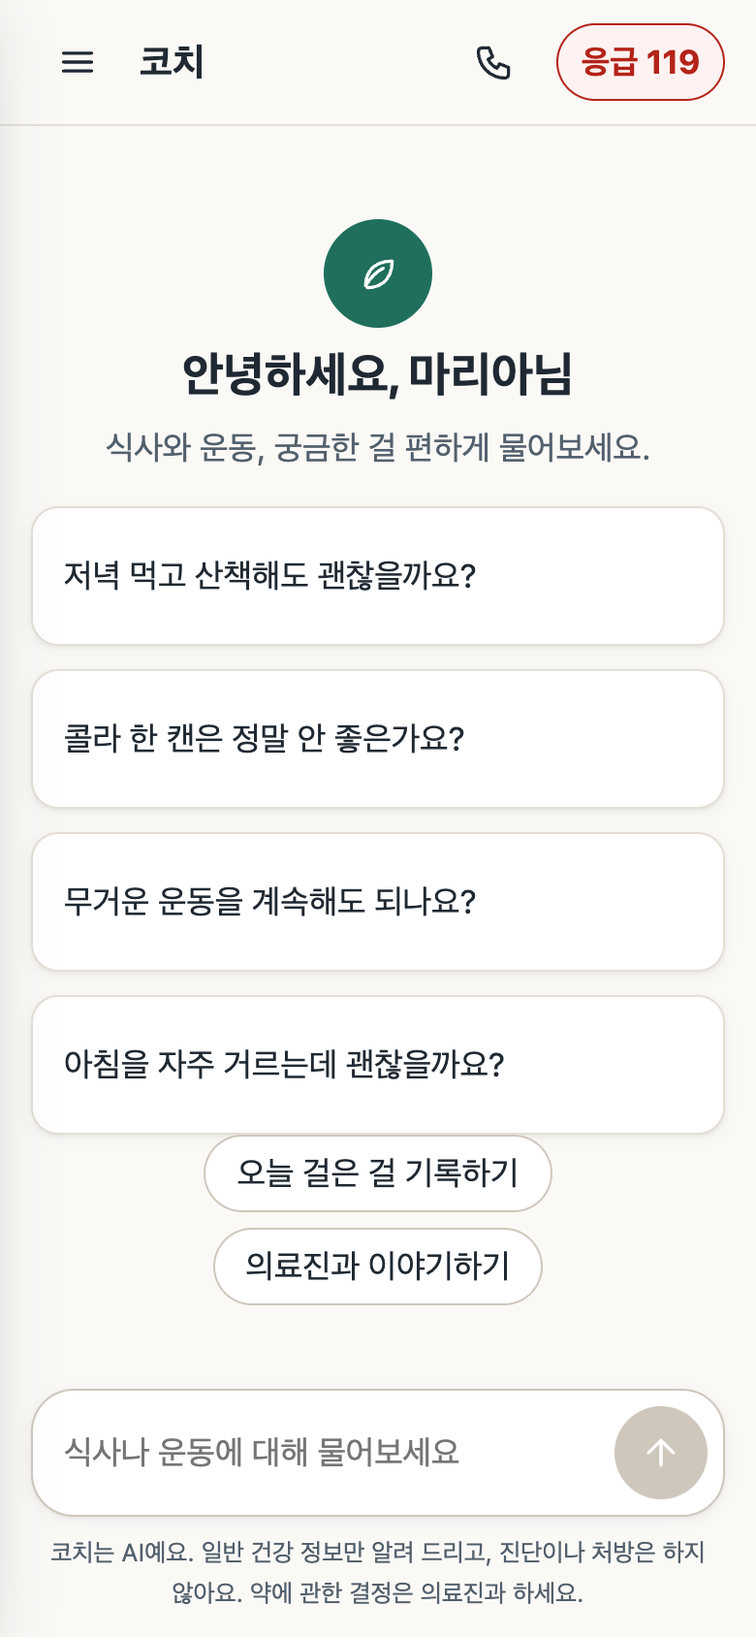
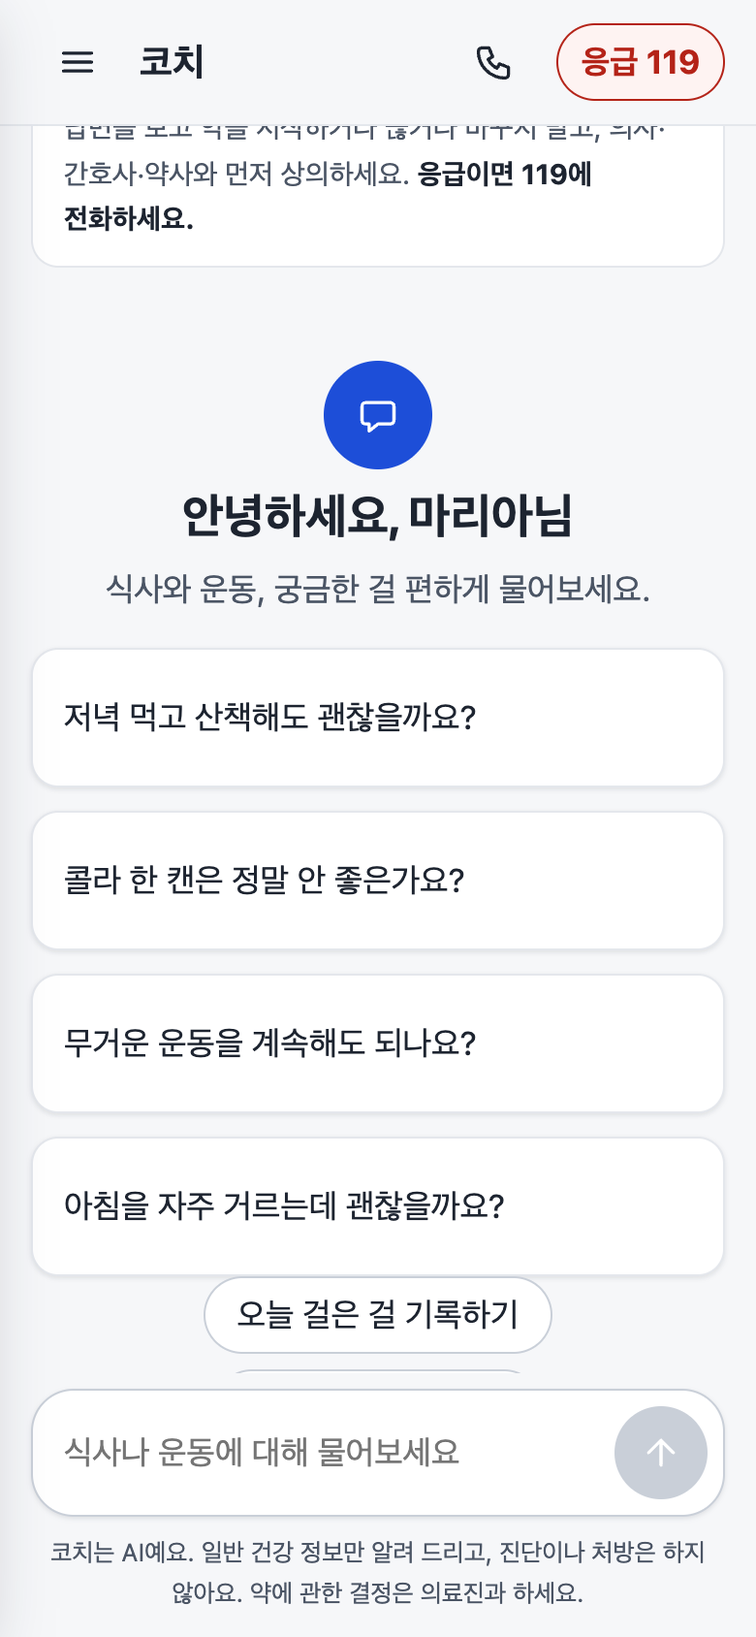
UI back to the published blue look; demo mode: one-click synthetic users and demo care team (COACH_DEMO); skip empty history answers

diff --git a/web/index.html b/web/index.html
@@ -1,6 +1,6 @@
 <!doctype html>
 <html lang="ko"><head><meta charset="utf-8"><meta name="viewport" content="width=device-width, initial-scale=1, viewport-fit=cover">
-<title>식단·운동 코치</title><meta name="theme-color" content="#1F6F5C"><link rel="manifest" href="/manifest.webmanifest"><link rel="icon" href="/icon.svg" type="image/svg+xml">
+<title>식단·운동 코치</title><meta name="theme-color" content="#1D4ED8"><link rel="manifest" href="/manifest.webmanifest"><link rel="icon" href="/icon.svg" type="image/svg+xml">
 <link rel="apple-touch-icon" href="/icon-192.png"><link rel="stylesheet" href="/ds.css">
 <style>
 html,body{height:100%}body{overflow:hidden}
@@ -23,10 +23,11 @@ html,body{height:100%}body{overflow:hidden}
 #banner:not(:empty){padding:var(--s3) var(--s4) 0}
 .scroll{flex:1;overflow:auto;padding:var(--s5) var(--s4) var(--s4);scroll-behavior:smooth}
 .thread{max-width:760px;margin:0 auto;display:flex;flex-direction:column;gap:var(--s5)}
+.notice{background:var(--surface);border:1px solid var(--line);border-radius:var(--r-md);padding:var(--s3) var(--s4);font-size:var(--fs-sm);color:var(--ink-2)}.notice b{color:var(--ink)}
 .date{align-self:center;font-size:var(--fs-sm);color:var(--ink-2);background:var(--surface-2);padding:2px var(--s3);border-radius:var(--r-pill)}
 .row{display:flex;gap:var(--s3);align-items:flex-start}.row.me{justify-content:flex-end}
-.bubble{background:var(--brand-soft);color:var(--ink);padding:var(--s3) var(--s4);border-radius:20px 20px 6px 20px;max-width:82%;white-space:pre-wrap}
-.bot{flex:1;min-width:0;display:flex;flex-direction:column;gap:var(--s2);max-width:680px}.bot p+p{margin-top:var(--s3)}.bot .txt{white-space:pre-wrap}
+.bubble{background:var(--brand-soft);color:var(--ink);padding:var(--s3) var(--s4);border-radius:var(--r-md) var(--r-md) 4px var(--r-md);max-width:82%;white-space:pre-wrap}
+.bot{flex:0 1 auto;min-width:0;display:flex;flex-direction:column;gap:var(--s2);max-width:680px;background:var(--surface);border:1px solid var(--line);border-radius:var(--r-md);padding:var(--s3) var(--s4);box-shadow:var(--sh-1)}.bot p+p{margin-top:var(--s3)}.bot .txt{white-space:pre-wrap}
 .cite{min-width:28px;min-height:28px;margin:0 2px;padding:0 6px;border-radius:var(--r-sm);border:1px solid var(--brand);background:var(--brand-soft);color:var(--brand);font:inherit;font-size:.8rem;font-weight:700;cursor:pointer;vertical-align:baseline}
 .srcs{display:flex;flex-wrap:wrap;gap:var(--s2);align-items:center}.srcs .chip{min-height:36px;font-size:var(--fs-sm)}
 .note{display:flex;align-items:center;gap:6px;font-size:var(--fs-sm);color:var(--ink-2)}.note .icon{width:16px;height:16px}
@@ -65,7 +66,7 @@ dl.meta{display:grid;grid-template-columns:max-content 1fr;gap:2px var(--s3);mar
 }
 </style></head><body>
 <svg width="0" height="0" style="position:absolute" aria-hidden="true">
- <symbol id="i-leaf" viewBox="0 0 24 24"><path d="M5 19c0-8 5-14 15-14 0 10-6 15-14 15"/><path d="M5 19c3-5 6-8 10-10"/></symbol>
+ <symbol id="i-leaf" viewBox="0 0 24 24"><path d="M5 5h14a2 2 0 0 1 2 2v8a2 2 0 0 1-2 2h-7l-5 4v-4H5a2 2 0 0 1-2-2V7a2 2 0 0 1 2-2z"/></symbol>
  <symbol id="i-menu" viewBox="0 0 24 24"><path d="M4 7h16M4 12h16M4 17h16"/></symbol>
  <symbol id="i-phone" viewBox="0 0 24 24"><path d="M5 4h4l2 5-2.5 1.5a11 11 0 0 0 5 5L15 13l5 2v4a2 2 0 0 1-2 2A15 15 0 0 1 3 6a2 2 0 0 1 2-2z"/></symbol>
  <symbol id="i-send" viewBox="0 0 24 24"><path d="M12 19V5M5 12l7-7 7 7"/></symbol>
@@ -146,8 +147,9 @@ const dayLabel=ts=>{const d=new Date(ts),t=new Date(),y=new Date(t-864e5),same=(
 function scrollEnd(){requestAnimationFrame(()=>scroller.scrollTo({top:scroller.scrollHeight}))}
 function put(html,cls=''){const d=document.createElement('div');d.className=cls;d.innerHTML=html;thread.appendChild(d);scrollEnd();return d}
 function renderThread(){thread.innerHTML='';hasMsgs=false;let last='';
+ put('<b>이 서비스는 의사가 아니라 건강 코칭 서비스예요.</b> 논문에서 찾은 일반 정보와 생활 습관만 알려 드려요. 답변을 보고 약을 시작하거나 끊거나 바꾸지 말고, 의사·간호사·약사와 먼저 상의하세요. <b>응급이면 119에 전화하세요.</b>','notice');
  (ME.history||[]).forEach(h=>{const day=dayLabel(h.ts);if(day!==last){put(esc(day),'date');last=day}
-  if(!h.message.startsWith('(approval)'))user(h.message);bot({answer:h.answer,route:h.route,citations:(h.meta&&h.meta.citations)||[]})});
+  if(!h.message.startsWith('(approval)'))user(h.message);if((h.answer||'').trim())bot({answer:h.answer,route:h.route,citations:(h.meta&&h.meta.citations)||[]})});
  if(!hasMsgs)hello();scrollEnd()}
 function hello(){const n=ME.account.name;const d=put(`<div class="hello"><span class="avatar">${icon('leaf')}</span><h2>안녕하세요, ${esc(n)}님</h2><p class="muted">식사와 운동, 궁금한 걸 편하게 물어보세요.</p></div>
  <div class="sugg">${SUGG.map(s=>`<button type="button">${esc(s)}</button>`).join('')}</div>

diff --git a/web/login.html b/web/login.html
@@ -1,6 +1,6 @@
 <!doctype html>
 <html lang="ko"><head><meta charset="utf-8"><meta name="viewport" content="width=device-width, initial-scale=1, viewport-fit=cover">
-<title>로그인 · 식단·운동 코치</title><meta name="theme-color" content="#1F6F5C"><link rel="icon" href="/icon.svg" type="image/svg+xml">
+<title>로그인 · 식단·운동 코치</title><meta name="theme-color" content="#1D4ED8"><link rel="icon" href="/icon.svg" type="image/svg+xml">
 <link rel="stylesheet" href="/ds.css">
 <style>
 body{min-height:100vh;display:grid;place-items:center;padding:var(--s5) var(--s4)}
@@ -17,8 +17,12 @@ form{display:flex;flex-direction:column;gap:var(--s4)}
 .steps{display:flex;gap:var(--s2);align-items:center;color:var(--ink-2);font-size:var(--fs-sm)}.steps b{color:var(--ink)}
 .check{display:flex;gap:var(--s3);align-items:flex-start}.check input{width:24px;height:24px;margin-top:2px;accent-color:var(--brand);flex:none}
 .foot{text-align:center}
+.demo{padding:var(--s5);display:flex;flex-direction:column;gap:var(--s3)}.demo h2{font-size:var(--fs-lg)}
+.people{display:grid;grid-template-columns:1fr 1fr;gap:var(--s2)}
+.people button{display:flex;flex-direction:column;align-items:flex-start;gap:2px;min-height:64px;padding:var(--s2) var(--s3);text-align:left;border:1px solid var(--line-strong);border-radius:var(--r-md);background:var(--surface);color:var(--ink);font:inherit;cursor:pointer}
+.people button:hover{background:var(--surface-2)}.people small{color:var(--ink-2);font-size:.78rem;line-height:1.3}
 </style></head><body>
-<svg width="0" height="0" style="position:absolute" aria-hidden="true"><symbol id="i-leaf" viewBox="0 0 24 24"><path d="M5 19c0-8 5-14 15-14 0 10-6 15-14 15"/><path d="M5 19c3-5 6-8 10-10"/></symbol></svg>
+<svg width="0" height="0" style="position:absolute" aria-hidden="true"><symbol id="i-leaf" viewBox="0 0 24 24"><path d="M5 5h14a2 2 0 0 1 2 2v8a2 2 0 0 1-2 2h-7l-5 4v-4H5a2 2 0 0 1-2-2V7a2 2 0 0 1 2-2z"/></symbol></svg>
 <main class="wrap">
  <header class="brand"><div class="mark" aria-hidden="true"><svg class="icon"><use href="#i-leaf"/></svg></div>
   <h1 style="font-size:var(--fs-2xl)">식단·운동 코치</h1><p class="muted">내 몸 상태에 맞춰 식사와 운동을 같이 살펴봐요.</p></header>
@@ -66,6 +70,8 @@ form{display:flex;flex-direction:column;gap:var(--s4)}
    <div style="display:flex;gap:var(--s2)"><button class="btn secondary" type="button" id="back" hidden>이전</button><button class="btn" type="submit" id="next" style="flex:1">다음</button></div>
   </form>
  </section>
+ <section class="card demo" id="demo" hidden aria-labelledby="demoH"><h2 id="demoH">가상 사용자로 체험하기</h2>
+  <p class="small muted">비밀번호 없이 바로 들어가요. 모두 가상의 인물이에요.</p><div class="people" id="people"></div></section>
  <p class="foot small muted">건강 정보는 이 서비스의 서버에만 저장돼요.</p>
 </main>
 <script src="/ds.js"></script>
@@ -84,6 +90,9 @@ $('tabIn').onclick=()=>tab(false);$('tabUp').onclick=()=>tab(true);if(location.h
 $('formIn').onsubmit=async e=>{e.preventDefault();$('inErr').textContent='';$('inBtn').disabled=true;
  try{await api('/api/auth/login',{username:$('inUser').value,password:$('inPw').value});location.href='/'}
  catch(x){$('inErr').textContent=x.message;$('inPw').value='';$('inBtn').disabled=false}};
+fetch('/api/demo/users').then(r=>r.ok?r.json():null).then(l=>{if(!l)return;$('demo').hidden=false;
+ $('people').innerHTML=l.map(u=>`<button type="button" data-id="${u.id}"><b>${esc(u.name)} · ${u.age}세</b><small>${esc(u.line)}</small></button>`).join('');
+ $('people').onclick=async e=>{const b=e.target.closest('button');if(!b)return;b.disabled=true;try{await api('/api/demo/enter',{user_id:b.dataset.id});location.href='/'}catch(x){toast(x.message);b.disabled=false}}}).catch(()=>{});
 let step=1;const NAMES=['계정 만들기','내 건강 정보','동의하고 시작하기'];
 function show(n){step=n;[1,2,3].forEach(i=>{const s=$('s'+i);s.hidden=i!==n;s.style.display=i===n?'flex':'none'});$('stepNo').textContent=n;$('stepName').textContent=NAMES[n-1];
  $('back').hidden=n===1;$('next').textContent=n===3?'가입하고 시작하기':'다음';$('upErr').textContent='';window.scrollTo(0,0)}

diff --git a/web/ds.css b/web/ds.css
@@ -1,31 +1,31 @@
 /* Design system v1 (docs/ui/DESIGN.md). Tokens first, then components. Pages add layout only, never new colors or sizes. */
 :root{
- /* color: surface */
- --bg:#FBF9F6;--surface:#FFFFFF;--surface-2:#F3EFE9;--line:#E4DED5;--line-strong:#CFC7BB;
+ /* color: surface (same cool-grey + blue family as the first published UI) */
+ --bg:#F6F7F9;--surface:#FFFFFF;--surface-2:#EEF1F5;--line:#E4E7EC;--line-strong:#C9CFD8;
  /* color: text */
- --ink:#1F2933;--ink-2:#52606D;--ink-inverse:#FFFFFF;
+ --ink:#1D2430;--ink-2:#4B5565;--ink-inverse:#FFFFFF;
  /* color: brand + semantic */
- --brand:#1F6F5C;--brand-hover:#185A4B;--brand-soft:#E3F1EC;--brand-ink:#FFFFFF;
- --danger:#B42318;--danger-soft:#FEF3F2;--warn:#8A4B08;--warn-soft:#FFF4E5;--ok:#067647;--hl:#FFF3BF;--hl-strong:#FFD43B;
- --scrim:rgba(20,24,26,.45);
+ --brand:#1D4ED8;--brand-hover:#1E40AF;--brand-soft:#E3ECFF;--brand-ink:#FFFFFF;
+ --danger:#B42318;--danger-soft:#FEF3F2;--warn:#B54708;--warn-soft:#FFF4E5;--ok:#067647;--hl:#FFF3BF;--hl-strong:#FFD43B;
+ --scrim:rgba(17,20,24,.45);
  /* type */
  --font:-apple-system,BlinkMacSystemFont,"Apple SD Gothic Neo","Noto Sans KR","Malgun Gothic",system-ui,sans-serif;
  --fs:17px;--fs-sm:.85rem;--fs-lg:1.15rem;--fs-xl:1.45rem;--fs-2xl:1.9rem;--lh:1.65;--lh-tight:1.3;
  /* space (4px scale), radius, shadow, motion */
  --s1:4px;--s2:8px;--s3:12px;--s4:16px;--s5:24px;--s6:32px;--s7:48px;--s8:72px;
  --r-sm:8px;--r-md:14px;--r-lg:22px;--r-pill:999px;
- --sh-1:0 1px 2px rgba(31,41,51,.06),0 2px 8px rgba(31,41,51,.05);--sh-2:0 8px 32px rgba(31,41,51,.18);
+ --sh-1:0 1px 2px rgba(16,24,40,.05),0 1px 3px rgba(16,24,40,.06);--sh-2:0 8px 32px rgba(16,24,40,.18);
  --t:150ms ease;--tap:48px;--focus:3px solid var(--brand);
- --chart-1:#1F6F5C;--chart-2:#C27803;--chart-3:#6B7C93;--chart-4:#B42318;
+ --chart-1:#2F6FED;--chart-2:#12B76A;--chart-3:#98A2B3;--chart-4:#F04438;
 }
 @media (prefers-color-scheme:dark){:root:not([data-theme="light"]){
- --bg:#14181A;--surface:#1C2124;--surface-2:#242B2F;--line:#2E363B;--line-strong:#3C464C;--ink:#ECEFF1;--ink-2:#A9B4BC;
- --brand:#5FC4A7;--brand-hover:#7AD3B9;--brand-soft:#1D3A33;--brand-ink:#0B2A22;--danger:#FF9A8F;--danger-soft:#3A1A17;--warn:#F6B25C;--warn-soft:#3A2A12;--ok:#47CD89;
+ --bg:#111418;--surface:#1A1F26;--surface-2:#222831;--line:#2B323C;--line-strong:#3A424E;--ink:#EEF0F4;--ink-2:#B0B8C5;
+ --brand:#8AB0FF;--brand-hover:#A9C4FF;--brand-soft:#1F2A40;--brand-ink:#0B1220;--danger:#FF8F85;--danger-soft:#2A1715;--warn:#FDB022;--warn-soft:#33250F;--ok:#47CD89;
  --hl:#4A4318;--hl-strong:#8A7A10;--scrim:rgba(0,0,0,.6);--sh-1:none;--sh-2:0 8px 32px rgba(0,0,0,.5);
- --chart-1:#5FC4A7;--chart-2:#F6B25C;--chart-3:#8FA0B5;--chart-4:#FF9A8F}}
-:root[data-theme="dark"]{--bg:#14181A;--surface:#1C2124;--surface-2:#242B2F;--line:#2E363B;--line-strong:#3C464C;--ink:#ECEFF1;--ink-2:#A9B4BC;
- --brand:#5FC4A7;--brand-hover:#7AD3B9;--brand-soft:#1D3A33;--brand-ink:#0B2A22;--danger:#FF9A8F;--danger-soft:#3A1A17;--warn:#F6B25C;--warn-soft:#3A2A12;--ok:#47CD89;
- --hl:#4A4318;--hl-strong:#8A7A10;--scrim:rgba(0,0,0,.6);--sh-1:none;--sh-2:0 8px 32px rgba(0,0,0,.5);--chart-1:#5FC4A7;--chart-2:#F6B25C;--chart-3:#8FA0B5;--chart-4:#FF9A8F}
+ --chart-1:#6C9CFF;--chart-2:#47CD89;--chart-3:#667085;--chart-4:#F97066}}
+:root[data-theme="dark"]{--bg:#111418;--surface:#1A1F26;--surface-2:#222831;--line:#2B323C;--line-strong:#3A424E;--ink:#EEF0F4;--ink-2:#B0B8C5;
+ --brand:#8AB0FF;--brand-hover:#A9C4FF;--brand-soft:#1F2A40;--brand-ink:#0B1220;--danger:#FF8F85;--danger-soft:#2A1715;--warn:#FDB022;--warn-soft:#33250F;--ok:#47CD89;
+ --hl:#4A4318;--hl-strong:#8A7A10;--scrim:rgba(0,0,0,.6);--sh-1:none;--sh-2:0 8px 32px rgba(0,0,0,.5);--chart-1:#6C9CFF;--chart-2:#47CD89;--chart-3:#667085;--chart-4:#F97066}
 
 *{box-sizing:border-box}html{font-size:var(--fs);-webkit-text-size-adjust:100%}
 body{margin:0;background:var(--bg);color:var(--ink);font:1rem/var(--lh) var(--font);word-break:keep-all;overflow-wrap:anywhere}

diff --git a/web/admin-login.html b/web/admin-login.html
@@ -12,9 +12,13 @@
   <div class="field"><label for="u">아이디</label><input class="input" id="u" autocomplete="username" autocapitalize="none" required></div>
   <div class="field"><label for="p">비밀번호</label><input class="input" id="p" type="password" autocomplete="current-password" required></div>
   <p class="error" id="err" role="alert"></p><button class="btn block" id="b" type="submit">로그인</button></form></section>
+ <section class="card panel" id="demo" hidden><h2 style="font-size:var(--fs-lg)">데모로 바로 보기</h2><p class="small muted">가상 이용자의 기록만 있는 체험용 입장이에요. 열람 기록은 그대로 남아요.</p>
+  <button class="btn secondary block" id="demoBtn" type="button">데모 의료진으로 입장</button></section>
  <p class="small muted">의료진 계정은 관리자가 따로 만들어 드려요. 이용자 화면은 <a href="/login">여기</a>에서 로그인하세요.</p>
 </main>
 <script src="/ds.js"></script>
-<script>applyTextSize();$('f').onsubmit=async e=>{e.preventDefault();$('err').textContent='';$('b').disabled=true;
+<script>applyTextSize();
+fetch('/api/config').then(r=>r.json()).then(c=>{if(c.demo)$('demo').hidden=false}).catch(()=>{});
+$('demoBtn').onclick=async()=>{try{await api('/api/demo/staff',{});location.href='/admin'}catch(x){$('err').textContent=x.message}};$('f').onsubmit=async e=>{e.preventDefault();$('err').textContent='';$('b').disabled=true;
  try{await api('/api/staff/login',{username:$('u').value,password:$('p').value});location.href='/admin'}catch(x){$('err').textContent=x.message;$('p').value='';$('b').disabled=false}}</script>
 </body></html>

diff --git a/app/server.py b/app/server.py
@@ -12,6 +12,7 @@ Care team: GET /api/admin/summary|users|users/{id}|alerts|audit, POST /api/admin
 from __future__ import annotations
 
 import json
+import os
 import secrets
 import sys
 import time
@@ -49,11 +50,18 @@ SIGNUP_MED = {"metformin": "metformin", "glimepiride": "glimepiride", "gliclazid
               "aspart": "insulin aspart", "premixed": "premixed insulin", "amlodipine": "amlodipine", "lisinopril": "lisinopril"}
 SIGNUP_MOB = {"good": "good", "balance": "poor balance", "cane": "uses a cane", "legs": "weak legs"}
 
+# Demo mode (default ON for this synthetic-data PoC): the 10 synthetic users and a demo care-team account can be entered with one
+# click, no password. Set COACH_DEMO=0 for anything with real people's data (docs/ACCOUNTS.md).
+DEMO = os.environ.get("COACH_DEMO", "1") == "1"
+SYNTHETIC = {u["id"] for u in json.loads((ROOT / "data" / "users.json").read_text())}
+
 STATE: dict = {}
 
 
 @asynccontextmanager
 async def lifespan(app: FastAPI):
+    if DEMO:
+        print("WARNING: COACH_DEMO=1 - one-click demo sign-in is ON. Set COACH_DEMO=0 when real people's data is stored.")
     STATE["deps"] = default_container()   # built once: settings, LLM, MCP servers (dependency injection)
     STATE["graph"] = build_graph()
     import asyncio
@@ -244,6 +252,47 @@ def delete_me(body: DeleteIn, request: Request, response: Response, user: dict =
     auth.delete_account(user["id"])
     response.delete_cookie(auth.USER_COOKIE, path="/")
     return {"ok": True}
+
+
+def _demo_only():
+    if not DEMO:
+        raise HTTPException(404)
+
+
+class DemoIn(BaseModel):
+    user_id: str
+
+
+@app.get("/api/demo/users", dependencies=[Depends(_demo_only)])
+def demo_users():
+    """Login page, demo mode: the synthetic people (first name, age, one line) - never real sign-ups."""
+    return [{"id": i, "name": p["name"].split()[0], "age": p["age"], "line": ", ".join(c for c in p["conditions_ko"] if c != "제2형 당뇨병") or "제2형 당뇨병"}
+            for i, p in _profiles().items() if i in SYNTHETIC]
+
+
+@app.post("/api/demo/enter", dependencies=[Depends(_demo_only), Depends(_same_origin)])
+def demo_enter(body: DemoIn, request: Request, response: Response):
+    if body.user_id not in SYNTHETIC:
+        raise HTTPException(404)
+    row = auth.run("SELECT id FROM accounts WHERE user_id = ? AND role = 'user'", (body.user_id,), one=True)
+    aid = row["id"] if row else auth.create_account(f"demo_{body.user_id}", secrets.token_urlsafe(24) + "a1", "user",
+                                                    (get_full_profile(body.user_id) or {}).get("name", body.user_id), body.user_id)
+    auth.start_session(request, response, aid, "user")
+    return {"ok": True}
+
+
+@app.post("/api/demo/staff", dependencies=[Depends(_demo_only), Depends(_same_origin)])
+def demo_staff(request: Request, response: Response):
+    row = auth.run("SELECT id FROM accounts WHERE username = 'demo_staff'", one=True)
+    aid = row["id"] if row else auth.create_account("demo_staff", secrets.token_urlsafe(24) + "a1", "staff", "데모 의료진")
+    auth.start_session(request, response, aid, "staff")
+    auth.audit("demo_staff", "sign in (demo)")
+    return {"ok": True}
+
+
+@app.get("/api/config")
+def config():
+    return {"demo": DEMO}
 
 
 @app.post("/api/staff/login", dependencies=[Depends(_same_origin)])

diff --git a/tests/test_auth.py b/tests/test_auth.py
@@ -129,3 +129,26 @@ def test_opening_a_person_and_changing_an_alert_are_audited(client):
     assert client.get("/api/admin/users/u01").status_code == 200
     actions = [r["action"] for r in client.get("/api/admin/audit").json()]
     assert "opened a person's data" in actions and "sign in" in actions
+
+
+def test_demo_mode_enters_only_synthetic_people_and_the_demo_staff(client, monkeypatch):
+    monkeypatch.setattr(server, "DEMO", True)
+    names = [u["name"] for u in client.get("/api/demo/users").json()]
+    assert len(names) == 10 and "Maria" in names
+    client.post("/api/auth/signup", json=SIGNUP)                      # a real sign-up never appears in the demo list
+    assert len(client.get("/api/demo/users").json()) == 10
+    real = auth.run("SELECT user_id FROM accounts WHERE username = ?", ("new_user1",), one=True)["user_id"]
+    client.cookies.clear()
+    assert client.post("/api/demo/enter", json={"user_id": real}).status_code == 404
+    assert client.post("/api/demo/enter", json={"user_id": "u04"}).status_code == 200
+    assert auth.session_account(types.SimpleNamespace(cookies=client.cookies), "user")["user_id"] == "u04"
+    assert client.get("/api/admin/users").status_code == 401           # a demo user is not staff
+    assert client.post("/api/demo/staff").status_code == 200 and client.get("/api/admin/users").status_code == 200
+    assert "sign in (demo)" in [r["action"] for r in client.get("/api/admin/audit").json()]
+
+
+def test_demo_mode_off_closes_every_demo_door(client, monkeypatch):
+    monkeypatch.setattr(server, "DEMO", False)
+    assert client.get("/api/demo/users").status_code == 404
+    assert client.post("/api/demo/enter", json={"user_id": "u01"}).status_code == 404
+    assert client.post("/api/demo/staff").status_code == 404

diff --git a/docs/ui/DESIGN.md b/docs/ui/DESIGN.md
@@ -13,12 +13,13 @@ No reference URL was given, so three were chosen for what they teach, not to cop
 | Ada Health site (**measured**: Noto Sans 17/28 px, navy ink #293754, pill buttons radius 100 px, serif headings) | Friendly health tone, 17 px body, pill buttons | Serif headings (poor Korean pairing), marketing layout |
 | KakaoTalk-style messenger (**assumed** from product knowledge, not measured) | Bubble shapes, big touch targets, date separators, a calm single accent | Yellow brand colour |
 
-Chosen: warm paper background, one green accent, bubble only for the user, assistant as plain text with an avatar,
-evidence as small numbered chips that open a side panel / bottom sheet.
+Chosen (revised 2026-11-04 after review): keep the look of the first published UI — cool grey background, **blue accent #1D4ED8**, white cards with thin borders — and
+add the chat structure: user bubble, assistant answer in a white card with an avatar, evidence as small numbered chips that open a side panel / bottom sheet.
+The first draft used a warm paper background and a green accent; it was dropped because it looked less polished than the published version.
 
 ## 2. Tokens (all in `ds.css`; light, with a dark variant)
-- **Colour:** `--bg #FBF9F6`, `--surface #FFF`, `--ink #1F2933`, `--ink-2 #52606D`, `--brand #1F6F5C` (contrast 6.0 on white), `--brand-soft #E3F1EC`,
-  `--danger #B42318`, `--warn #8A4B08`, `--ok #067647`. Semantic use only: brand = actions and user bubble, danger = emergency, warn = caution.
+- **Colour:** `--bg #F6F7F9`, `--surface #FFF`, `--ink #1D2430`, `--ink-2 #4B5565`, `--brand #1D4ED8` (contrast 6.7 on white), `--brand-soft #E3ECFF`,
+  `--danger #B42318`, `--warn #B54708`, `--ok #067647`. Semantic use only: brand = actions and user bubble, danger = emergency, warn = caution.
 - **Type:** system Korean stack (Apple SD Gothic Neo, Noto Sans KR, Malgun Gothic). Base **17 px** (user can set 15–26 px), line height 1.65,
   `word-break: keep-all` so Korean words do not split. Scale: 0.85 / 1 / 1.15 / 1.45 / 1.9 rem.
 - **Space:** 4 px scale `--s1…--s8` (4, 8, 12, 16, 24, 32, 48, 72). **Radius:** 8 / 14 / 22 / pill. **Shadow:** two levels. **Touch target:** 48 px.
@@ -32,7 +33,7 @@ Chat-only: user bubble, assistant text block, evidence chips and `cite` number b
 Rules: emergency is the only red surface; every control has a visible 3 px focus ring; no new colour or size outside the tokens.
 
 ## 4. Information architecture
-- `/login` (log in / sign up in 3 steps: account → health profile → consent) · `/` chat with sidebar (profile summary, records, settings, log out) ·
+- `/login` (log in / sign up in 3 steps: account → health profile → consent; in demo mode also “가상 사용자로 체험하기” cards) · `/` chat with sidebar (profile summary, records, settings, log out) ·
   `/admin/login` → `/admin` (overview, alerts, people, access log). Two separate sign-ins and roles.
 - Always visible in chat: “응급 119” and an “의료진과 이야기하기” button. A banner repeats the 119 call on an emergency answer.
 - Evidence: numbered buttons inside the answer + chips under it → panel with the supporting sentence, the paper excerpt (supporting sentences highlighted) and the PMC link.

diff --git a/README.md b/README.md
@@ -75,8 +75,8 @@ cp .env.example .env                                  # OPENAI_API_KEY 입력 (L
 .venv/bin/python scripts/fetch_papers.py              # 논문 86편 내려받기 (PMC 오픈액세스, 저장소에는 원문 없음)
 .venv/bin/python scripts/build_index.py               # chunking + embedding (약 $0.02, 1회)
 .venv/bin/python scripts/seed_demo_monitoring.py --users   # (선택) 관리자 화면 데모 데이터
-.venv/bin/python scripts/manage_accounts.py seed-demo   # 처음 한 번: 가상 사용자 10명 + 의료진 계정 (비밀번호는 data/demo_accounts.txt, git 제외)
-.venv/bin/uvicorn app.server:app --port 8000          # 사용자 http://localhost:8000 (로그인 /login, 가입 가능), 의료진 /admin/login
+.venv/bin/uvicorn app.server:app --port 8000          # 사용자 http://localhost:8000/login (가상 사용자 원클릭 입장, 직접 가입도 가능), 의료진 /admin/login (데모 입장 버튼)
+# 실제 사람의 데이터를 저장하는 배포에서는 COACH_DEMO=0 (docs/ACCOUNTS.md). 비밀번호 계정이 필요하면: scripts/manage_accounts.py seed-demo
 .venv/bin/python -m pytest -q                         # 단위 테스트 (API 키 불필요)
 ```
 평가 다시 실행: [docs/EVALUATION.md §8](docs/EVALUATION.md#8-다시-계산하기)

diff --git a/docs/ACCOUNTS.md b/docs/ACCOUNTS.md
@@ -15,6 +15,12 @@ Implementation: `app/auth.py`, endpoints in `app/server.py`, tests in `tests/tes
 | Account deletion | settings → deletes the account, profile, records and monitoring-log rows after a password check |
 | Care-team audit | opening a person's data, changing an alert and signing in are written to `audit` and shown on the console's “열람 기록” tab |
 
+## Demo mode (`COACH_DEMO`, default **on**)
+This project uses synthetic people, so a clone should work without creating accounts: the login page shows the 10 synthetic users (one click, no password) and the
+care-team login has “데모 의료진으로 입장”. Real sign-ups never appear in that list and cannot be entered this way; the demo staff sign-in is written to the audit log.
+**Set `COACH_DEMO=0` in any deployment that stores real people's data** — the demo staff entry opens the whole care-team console.
+Normal sign-in (accounts, passwords, lockout) works the same in both modes.
+
 Create accounts: `scripts/manage_accounts.py seed-demo | create-staff USER "Name" | reset-password USER`.
 `seed-demo` writes random passwords to `data/demo_accounts.txt` (mode 600, git-ignored).
 
